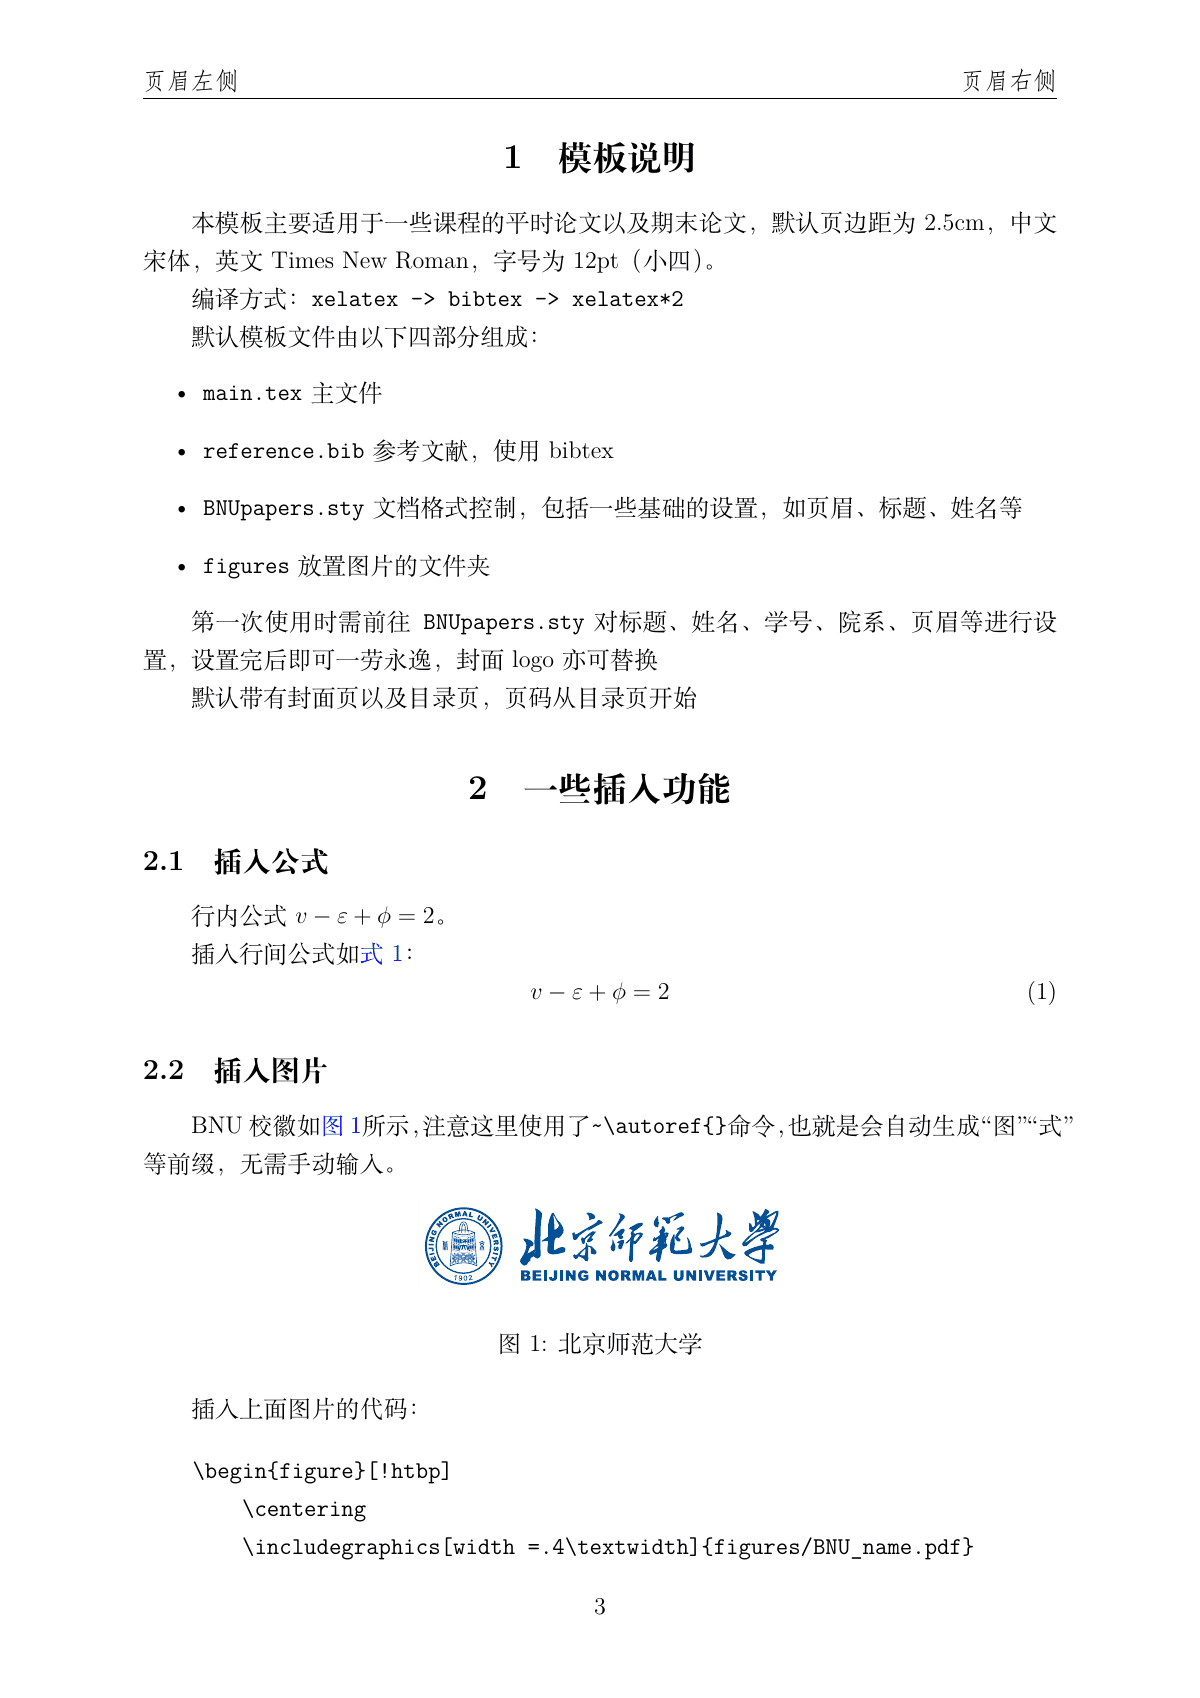
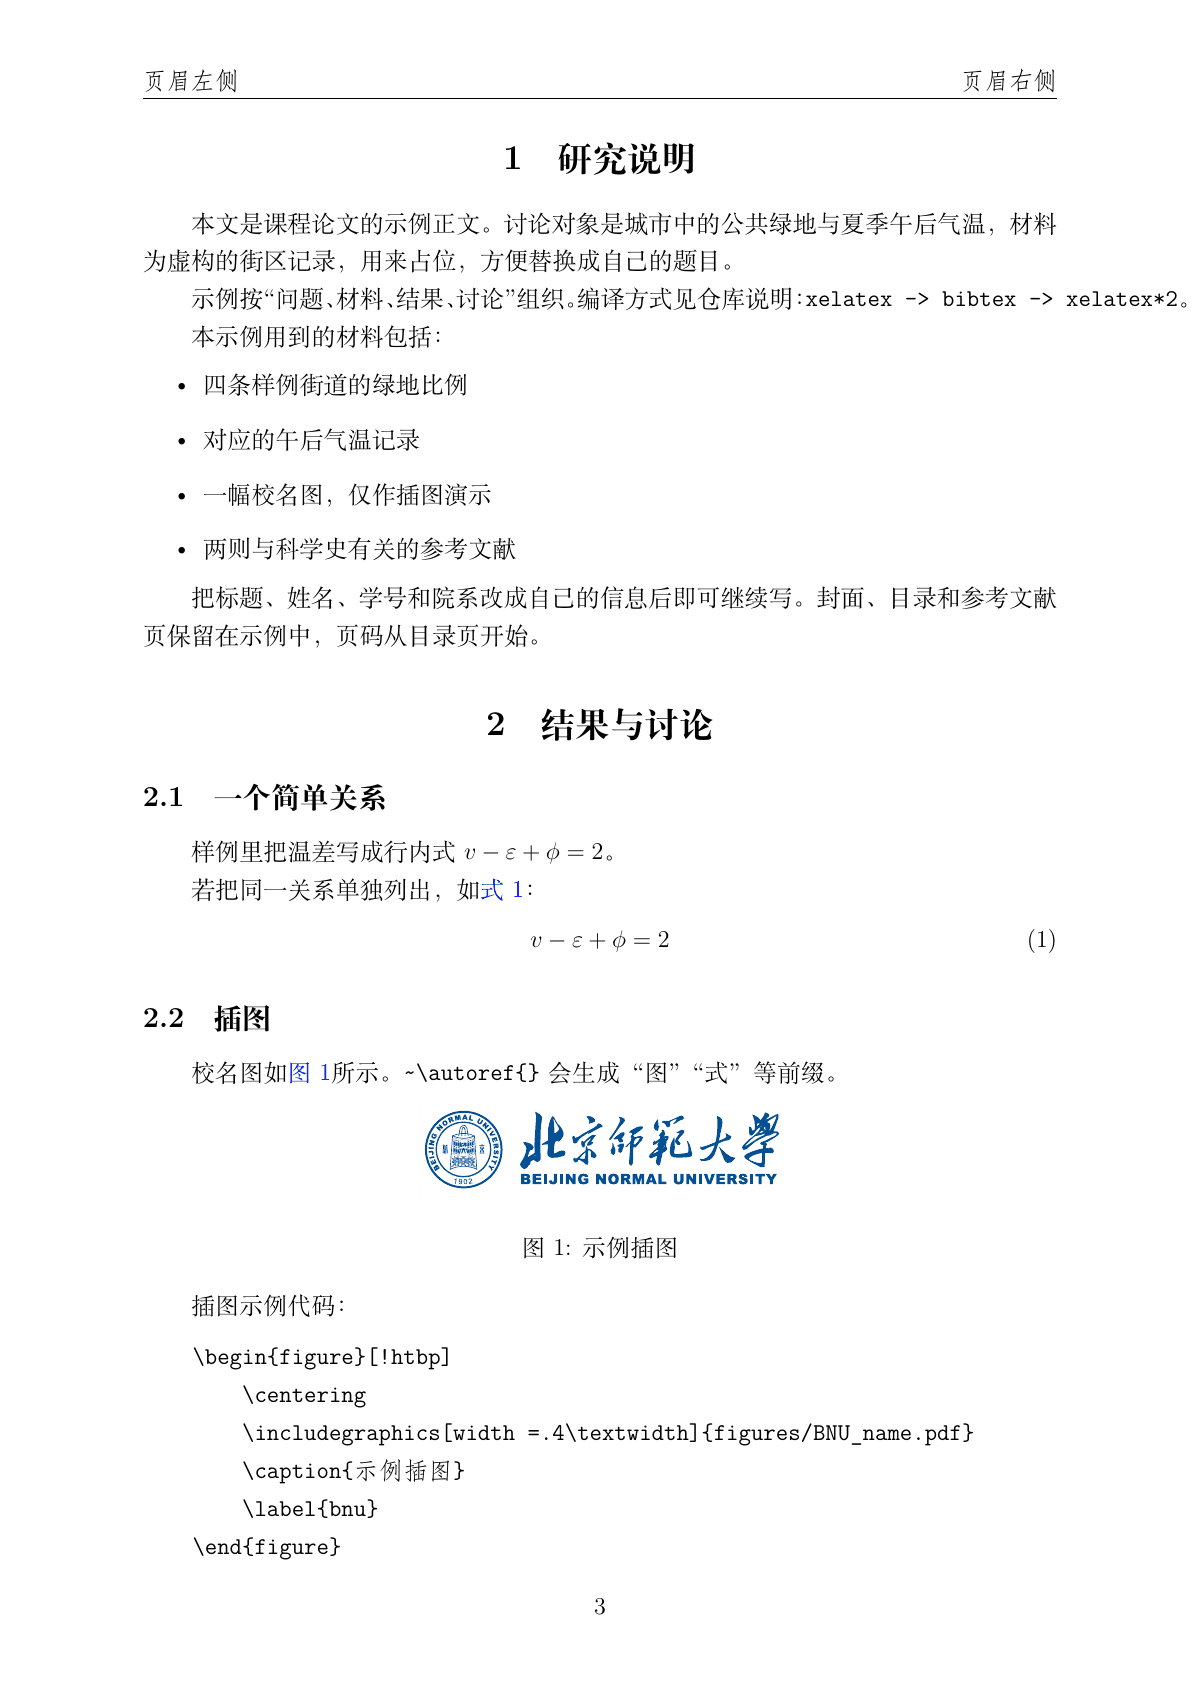
Center the slides title page and anonymize examples
Give a title-only frame the full text width, and replace the course-paper and CV sample text with placeholders.

diff --git a/templates/cv/main.tex b/templates/cv/main.tex
@@ -100,49 +100,49 @@
 %%%% 利用tikz来定位页脚栏，电子版简历使用，黑白纸质打印效果可能并不好。这里只在第一页显示，如果需要每页都有，页脚或者background中加入。
 \begin{tikzpicture}[remember picture, overlay]
 	\node[anchor = south,fill=CVBlue,draw=none,minimum width=\paperwidth,minimum height=1.5em,align=center,font=\footnotesize,text=white] at ($(current page.south)$)
-	{\faGithubAlt \ \href{https://github.com/leyudame}{https://github.com/leyudame}\qquad
-		\faRssSquare \ \href{https://leyudame.github.io}{https://leyudame.github.io} };
+	{\faGithubAlt \ \href{https://example.com}{example.com}\qquad
+		\faRssSquare \ \href{https://example.com}{example.com} };
 \end{tikzpicture}
 
 %tikzpicture环境很敏感，注释周围的空格、空行都会引起水平距离或垂直距离的变化，
 %
-\centerline{\LARGE\bfseries{木小铎}}
+\centerline{\LARGE\bfseries{张三}}
 
 %\centerline{\normalsize{专业：数学与应用数学（公费师范）}}
 %\centerline{\normalsize{专业：汉语言文学（公费师范）}}
 
-\centerline{\normalsize{意向岗位：高中数学教师 \quad 专业：学科教学（数学）}}
+\centerline{\normalsize{意向岗位：示例岗位 \quad 专业：某某专业}}
 
 \centerline{\normalsize{
-		\faPhone \ 13X XXXX XXXX \quad
-		\faEnvelopeO \ \href{mailto:mxd@mail.bnu.edu.cn}{mxd@mail.bnu.edu.cn}}}
+		\faPhone \ 138-0000-0000 \quad
+		\faEnvelopeO \ \href{mailto:example@example.com}{example@example.com}}}
 %%最好用你的edu邮箱
 
 %\centerline{\normalsize{ 
-%  \faExternalLink \ \href{https://leyudame.github.io}{https://leyudame.github.io} \quad
-%  \faGithubAlt \ \href{https://github.com/leyudame}{https://github.com/leyudame}
+%  \faExternalLink \ \href{https://example.com}{https://example.com} \quad
+%  \faGithubAlt \ \href{https://example.com}{https://example.com}
 %  }}
 %  \vspace{1.5ex}
 
 \section{\makebox[\widthof{\faGraduationCap}][c]{\color{CVBlue}\faGraduationCap}\  教育背景}
 
-\textbf{北京师范大学}（202X年9月至今）
+\textbf{某某大学}（202X年9月至今）
 
-\qquad 硕士研究生 \quad 学科教学（数学），预计202X年6月毕业
+\qquad 硕士研究生 \quad 某某专业，预计202X年6月毕业
 
-\textbf{北京师范大学}（20XX年9月 -- 20XX年7月）
+\textbf{某某大学}（20XX年9月 -- 20XX年7月）
 
-\qquad 本科 \quad 数学与应用数学
+\qquad 本科 \quad 某某专业
 
-\textbf{京海市高级中学}（20XX年9月 -- 20XX年7月） %\hfill 2017年9月 -- 2020年6月
+\textbf{某某中学}（20XX年9月 -- 20XX年7月）
 
-\qquad 曾获XX奖学金，最好成绩\textbf{总分年级第X，高考6XX}
+\qquad 曾获学业奖学金，示例成绩\textbf{年级前10\%}
 
 \section{\makebox[\widthof{\faGraduationCap}][c]{\color{CVBlue}\faTrophy}\ 获奖情况}
 \begin{itemize}
-	\item 奖学金类：\textbf{国家奖学金}，\textbf{京师一等奖学金}（X次），\textbf{学业一等奖学金}（X次），\textbf{新生一等奖学金}
-	\item 专业类：XX竞赛\textbf{全国一等奖}，XX竞赛\textbf{全国二等奖}
-	\item 教学技能类： 未来教师素养大赛\textbf{一等奖}
+	\item 奖学金：\textbf{学业奖学金}，\textbf{新生奖学金}
+	\item 竞赛：某学科竞赛\textbf{一等奖}，某学科竞赛\textbf{二等奖}
+	\item 实践： 校园项目展示\textbf{一等奖}
 \end{itemize}
 
 
@@ -151,24 +151,24 @@
 
 \textbf{专业排名前1\%}
 \begin{itemize}[parsep=0.5ex]
-	\item 数学类：数学分析99，高等代数96，解析几何96，常微分方程96，概率论95，测度论95，随机过程94，...
-	\item 教育类：教育学97，数学教学设计与案例分析95，中学数学教学概论92，...
-	\item 英语: 四级650 六级630 雅思7.0
+	\item 专业课：示例课程甲 90，示例课程乙 88，示例课程丙 86
+	\item 方法课：示例课程丁 92，示例课程戊 85
+	\item 语言：示例成绩，可换成自己的等级或分数
 \end{itemize}
 
 
 \section{\makebox[\widthof{\faGraduationCap}][c]{\color{CVBlue}\faUniversity}\ 实践经历}
 \textbf{教育实习}
 \begin{itemize}
-	\item \textbf{英国剑桥Meridian Primary School}（202X年9-10月）北师大海外中小学实习项目
-	\item \textbf{京海市高级中学}（202X年9-12月）担任2个班级的实习数学教师和1个班级的实习班主任
-	\item \textbf{京海小学}（202X年7月）担任支教队数学科组长，设计了《数学之美》系列课程
+	\item \textbf{某某学校}（202X年9-10月）参加实习，协助课堂教学
+	\item \textbf{某某中学}（202X年9-12月）担任实习教师，负责两个班级
+	\item \textbf{某某小学}（202X年7月）参与支教，设计一组示例课程
 \end{itemize}
 
 \textbf{交流项目}
 \begin{itemize}
-	\item XX大学(University of XX)（202X年X月）
-	\item YY大学(University of YY)（202X年X月）
+	\item 某某大学（202X年X月）短期交流
+	\item 另一所示例学校（202X年X月）短期交流
 \end{itemize}
 
 %
@@ -182,8 +182,8 @@
 
 \section{\makebox[\widthof{\faGraduationCap}][c]{\color{CVBlue}\faUsers}\ 学生工作}
 \begin{itemize}
-	\item 学生会主席团成员，曾策划组织大型\LaTeX{}研讨会
-	\item 202X级数学与应用数学班团支部书记
+	\item 学生社团成员，协助组织一次校园活动
+	\item 202X级某某专业班级委员
 \end{itemize}
 
 \section{\makebox[\widthof{\faGraduationCap}][c]{\color{CVBlue}\faWrench}\ 工作技能}
@@ -198,7 +198,7 @@
 
 \section{\makebox[\widthof{\faGraduationCap}][c]{\color{CVBlue}\faTags}\ 其他}
 % increase linespacing [parsep=0.5ex]
-爱好特长：打篮球，以及给@LeyuDame的\LaTeX{}模板star$\sim$
+爱好特长：阅读，以及用\LaTeX{}写笔记
 
 %%%% 如果多页简历，可以手动在适当位置插入 \newpage 或者 \clearpage 开始新一页
 
